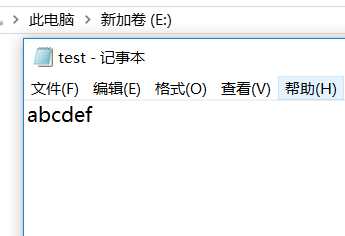
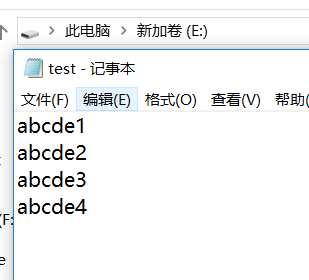
21_13

Changed region(s): [[0.0, 0.0, 1.0, 1.0]]

diff --git a/Demo21_13.java b/Demo21_13.java
@@ -1,0 +1,19 @@
+import java.io.BufferedReader;
+import java.io.FileReader;
+import java.io.IOException;
+
+class Demo21_13{
+    public static void main(String[] args) throws IOException{
+        FileReader fr = new FileReader("e:/test.txt");
+
+        BufferedReader bufr = new BufferedReader(fr);
+
+        String line = null;
+
+        while((line = bufr.readLine())!=null){
+            System.out.println(line);
+        }
+
+        bufr.close();
+    }
+}

diff --git a/Demo21_12.java b/Demo21_12.java
@@ -8,7 +8,11 @@ class Demo21_12{
 
         BufferedWriter bufw = new BufferedWriter(fw);
 
-        bufw.write("abcdef");
+        for(int i=1;i<5;i++){
+            bufw.write("abcde"+i);
+            bufw.newLine();
+            bufw.flush();
+        }
 
         bufw.close();
     }

diff --git a/...BiXiangdong.md b/...BiXiangdong.md
@@ -4333,7 +4333,7 @@ hehehehehehe!
 
 以下文字来源于API文档:
 
-创建线程的另一种方法是声明实现 Runnable 接口的类。该类然后实现 run 方法。然后可以分配该类的实例，在创建 Thread 时作为一个参数来传递并启动。采用这种风格的同一个例子如下所示： 
+创建���程的另一种方法是声明实现 Runnable 接口的类。该类然后实现 run 方法。然后可以分配该类的实例，在创建 Thread 时作为一个参数来传递并启动。采用这种风格的同一个例子如下所示： 
 
 
 
@@ -10016,11 +10016,49 @@ class Demo21_12{
 
         BufferedWriter bufw = new BufferedWriter(fw);
 
-        bufw.write("abcdef");
+        for(int i=1;i<5;i++){
+            bufw.write("abcde"+i);
+            bufw.newLine();
+            bufw.flush();
+        }
 
         bufw.close();
     }
 }
 ```
 
+程序结果:
+
 ![test](https://github.com/geekavan/BiXiangdong/blob/master/test.png)
+
+其实字符流缓冲区就是字符流再加上数组实现的，BufferedWriter为了提高效率而生
+
+# 21_13字符流_缓冲区_BufferedReader
+
+```java
+import java.io.BufferedReader;
+import java.io.FileReader;
+import java.io.IOException;
+
+class Demo21_13{
+    public static void main(String[] args) throws IOException{
+        FileReader fr = new FileReader("e:/test.txt");
+
+        BufferedReader bufr = new BufferedReader(fr);
+
+        String line = null;
+
+        while((line = bufr.readLine())!=null){
+            System.out.println(line);
+        }
+
+        bufr.close();
+    }
+}
+/*
+abcde1
+abcde2
+abcde3
+abcde4
+*/
+```
